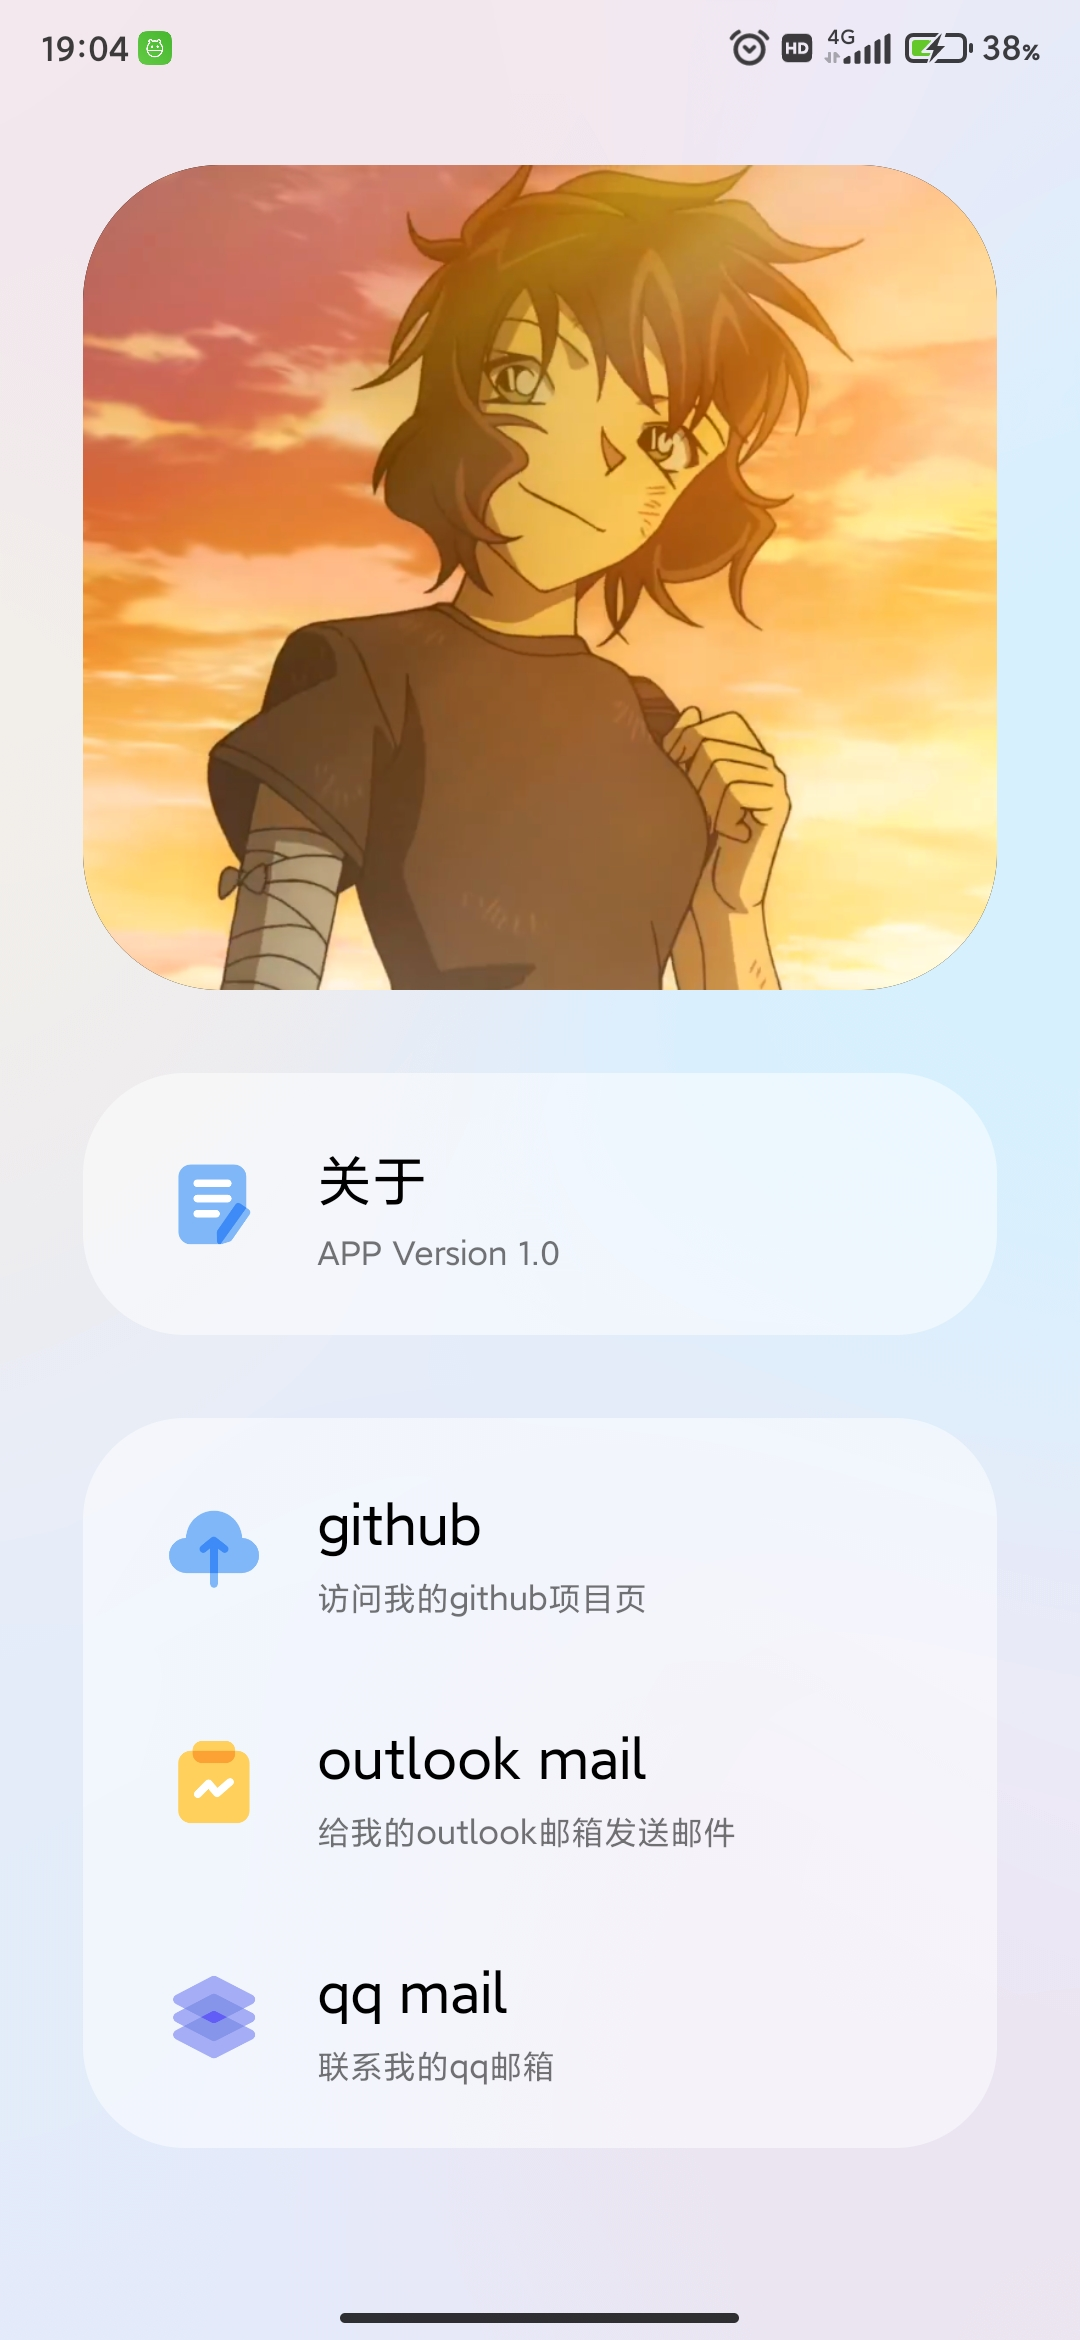
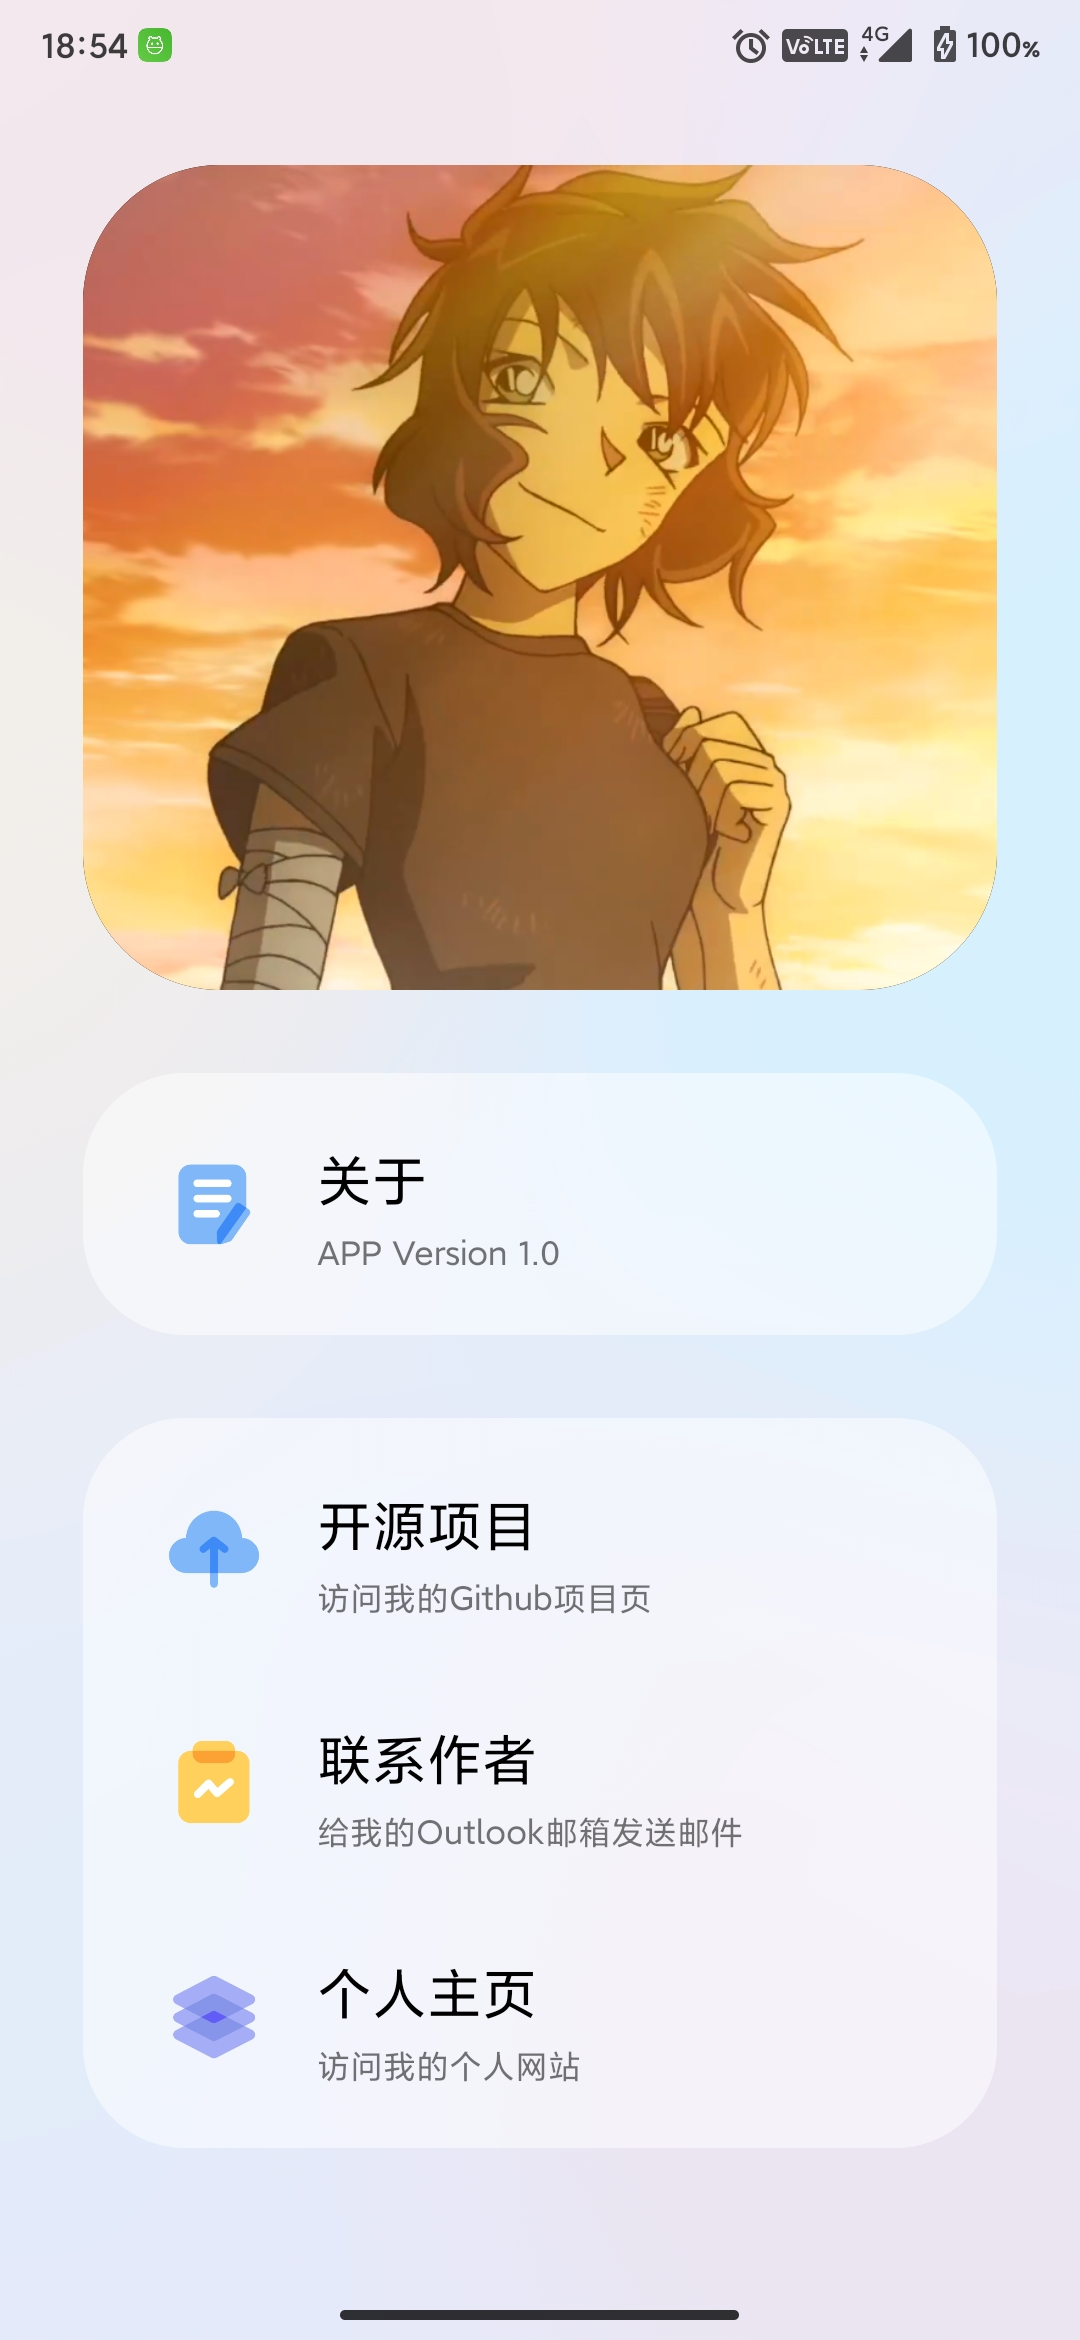
Update

diff --git a/app/src/main/java/com/x/wallpaper/AboutActivity.kt b/app/src/main/java/com/x/wallpaper/AboutActivity.kt
@@ -7,10 +7,8 @@ import android.net.Uri
 import android.os.Build
 import androidx.appcompat.app.AppCompatActivity
 import android.os.Bundle
-import android.transition.Fade
 import android.transition.Slide
 import android.view.*
-import android.widget.ImageView
 import android.widget.TextView
 import android.widget.Toast
 import androidx.annotation.RequiresApi
@@ -18,9 +16,25 @@ import androidx.cardview.widget.CardView
 import androidx.constraintlayout.utils.widget.ImageFilterView
 import androidx.recyclerview.widget.LinearLayoutManager
 import androidx.recyclerview.widget.RecyclerView
-import androidx.recyclerview.widget.StaggeredGridLayoutManager
-import com.x.wallpaper.Utils.animateScale
+import com.google.gson.Gson
+import com.google.gson.reflect.TypeToken
 import com.x.wallpaper.databinding.ActivityAboutBinding
+import okhttp3.OkHttpClient
+import okhttp3.Request
+import okhttp3.Response
+import okio.IOException
+import retrofit2.Call
+import retrofit2.Callback
+import retrofit2.Retrofit
+import retrofit2.converter.gson.GsonConverterFactory
+import retrofit2.http.GET
+import java.io.BufferedReader
+import java.io.InputStreamReader
+import java.lang.Exception
+import java.lang.StringBuilder
+import java.net.URL
+import javax.net.ssl.HttpsURLConnection
+import kotlin.concurrent.thread
 
 @RequiresApi(Build.VERSION_CODES.R)
 class AboutActivity : AppCompatActivity() {
@@ -34,9 +48,9 @@ class AboutActivity : AppCompatActivity() {
     }
 
     private fun initData() {
-        aboutList.add(AboutItem(R.drawable.ico_github,"github","访问我的github项目页"))
-        aboutList.add(AboutItem(R.drawable.ico_outlook,"outlook mail","给我的outlook邮箱发送邮件"))
-        aboutList.add(AboutItem(R.drawable.ico_qq,"qq mail","联系我的qq邮箱"))
+        aboutList.add(AboutItem(R.drawable.ico_github,"开源项目","访问我的Github项目页"))
+        aboutList.add(AboutItem(R.drawable.ico_outlook,"联系作者","给我的Outlook邮箱发送邮件"))
+        aboutList.add(AboutItem(R.drawable.ico_qq,"个人主页","访问我的个人网站"))
 
         firstList.add(AboutItem(R.drawable.ico_version,"关于","APP Version 1.0"))
     }
@@ -113,7 +127,7 @@ class AboutAdapter(private val aboutList : List<AboutItem>,private val isAbout :
         val urlGithub =
             "https://github.com/Case-Closed-X/Android-Wallpaper-Application"
         val urlOutlook = "mailto:CaseClosedX@outlook.com"
-        val urlQQ = "mailto:CaseClosedX@qq.com"
+        val urlHomePage = "https://case-closed-x.github.io/"
 
         val view = LayoutInflater.from(parent.context).inflate(R.layout.about_item,parent,false)
 
@@ -124,7 +138,7 @@ class AboutAdapter(private val aboutList : List<AboutItem>,private val isAbout :
                 val intent = Intent(Intent.ACTION_VIEW, Uri.parse(when(position){
                     0-> urlGithub
                     1-> urlOutlook
-                    2-> urlQQ
+                    2-> urlHomePage
                     else -> null
                 }))
                 when (event.action) {
@@ -139,8 +153,9 @@ class AboutAdapter(private val aboutList : List<AboutItem>,private val isAbout :
                         if (isAbout){
                             parent.context.startActivity(intent)
                         }
-                        else if (position == 0){//后续会优化
-                            Toast.makeText(parent.context,"已经是最新版本", Toast.LENGTH_SHORT).show()
+                        else if (position == 0){// 使用网络获取版本，可以设置flag获取时无效点击
+                            // 获取成功打开github下载页面或者弹出对话框，直接创建下载任务
+                            retrofit()
                         }
                     }
                 }
@@ -149,6 +164,89 @@ class AboutAdapter(private val aboutList : List<AboutItem>,private val isAbout :
 
         return viewHolder
     }
+
+    private fun retrofit() {
+        val versionService = ServiceCreator.create<VersionService>()
+        versionService.getVersionData().enqueue(object : Callback<List<AppVersion>>{
+            override fun onResponse(
+                call: Call<List<AppVersion>>,
+                response: retrofit2.Response<List<AppVersion>>
+            ) {
+                val list = response.body()
+                if (list!=null){
+                    for (version in list){
+                        if (version.version == "1.0") {
+                            Toast.makeText(MyApplication.context, "已经是最新版本", Toast.LENGTH_SHORT)
+                                .show()
+                        }
+                        else{
+                            Toast.makeText(MyApplication.context, "有新版本更新", Toast.LENGTH_SHORT)
+                                .show()
+                            val intent = Intent(Intent.ACTION_VIEW, Uri.parse("https://github.com/Case-Closed-X/Android-Wallpaper-Application/releases/"))
+                            MyApplication.context.startActivity(intent)
+                        }
+                    }
+                }
+            }
+
+            override fun onFailure(call: Call<List<AppVersion>>, t: Throwable) {
+                t.printStackTrace()
+                Toast.makeText(MyApplication.context, "获取更新超时，请检查网络连接", Toast.LENGTH_SHORT)
+                    .show()
+            }
+        })
+
+    }
+
+/*    private fun okHttp() {
+        thread {
+            try {
+                val client = OkHttpClient()
+
+                val request = Request.Builder()
+                    .url("https://case-closed-x.github.io/Json/wallpaper_version.json")
+                    .build()
+                val response = client.newCall(request).execute()
+                val responseData = response.body?.string()
+                if (responseData!=null){
+                    parseJSONWithGSON(responseData)
+                }
+            }catch (e:Exception){
+                e.printStackTrace()
+            }
+        }
+    }*/
+
+/*    private fun parseJSONWithGSON(jsonData: String) {
+        val gson = Gson()
+        val typeOf = object : TypeToken<List<AppVersion>>() {}.type
+        val versionList = gson.fromJson<List<AppVersion>>(jsonData,typeOf)
+        for(version in versionList){
+            if (version.version=="1.0")
+            {
+
+            }
+        }
+    }*/
+
+/*    private fun httpURLConnection() {
+        thread {
+            var connection:HttpsURLConnection ?= null
+
+            var response = StringBuilder()
+            val url = URL("https://raw.githubusercontent.com/Case-Closed-X/Android-Wallpaper-Application/ecf047dc0e396ccd0f9c0e85b0f134e7e63df06a/app/src/main/res/raw/wallpaper_version.json")
+            connection = url.openConnection() as HttpsURLConnection
+            connection.connectTimeout = 8000
+            connection.readTimeout = 8000
+            val input = connection.inputStream
+            val reader = BufferedReader(InputStreamReader(input))
+            reader.use {
+                reader.forEachLine {
+                    response.append(it)
+                }
+            }
+        }
+    }*/
 
     override fun onBindViewHolder(holder: AboutAdapter.ViewHolder, position: Int) {
         val aboutItem = aboutList[position]
@@ -162,6 +260,22 @@ class AboutAdapter(private val aboutList : List<AboutItem>,private val isAbout :
     }
 }
 
-class AboutItem (val imageId : Int, val title : String, val content : String){
+class AboutItem (val imageId : Int, val title : String, val content : String)
 
+class AppVersion(val version: String)
+
+interface VersionService{
+    @GET("wallpaper_version.json")
+    fun getVersionData():Call<List<AppVersion>>
+}
+
+object ServiceCreator{
+    private const val BASE_URL = "https://case-closed-x.github.io/Json/"
+    private val retrofit = Retrofit.Builder()
+        .baseUrl(BASE_URL)
+        .addConverterFactory(GsonConverterFactory.create())
+        .build()
+
+    fun <T> create(serviceClass: Class<T>):T = retrofit.create(serviceClass)
+    inline fun <reified T> create() : T = create(T::class.java)
 }

diff --git a/app/src/main/java/com/x/wallpaper/RecyclerViewActivity.kt b/app/src/main/java/com/x/wallpaper/RecyclerViewActivity.kt
@@ -75,6 +75,17 @@ class RecyclerViewActivity : AppCompatActivity() {
         super.onDestroy()
     }
 
+    private fun initImages() {
+        imageList.add(ImageItem(R.drawable.space))
+        imageList.add(ImageItem(R.drawable.mountain))
+        imageList.add(ImageItem(R.drawable.aperture))
+        imageList.add(ImageItem(R.drawable.ship))
+        imageList.add(ImageItem(R.drawable.technology))
+        imageList.add(ImageItem(R.drawable.sky))
+        imageList.add(ImageItem(R.drawable.tree))
+        imageList.add(ImageItem(R.drawable.road))
+    }
+
     /*fun readBitmapFromResource(
         resources: Resources,
         resourcesId: Int,
@@ -99,15 +110,4 @@ class RecyclerViewActivity : AppCompatActivity() {
         options.inSampleSize = inSampleSize
         return BitmapFactory.decodeStream(ins, null, options)
     }*/
-
-    private fun initImages() {
-        imageList.add(ImageItem(R.drawable.space))
-        imageList.add(ImageItem(R.drawable.mountain))
-        imageList.add(ImageItem(R.drawable.aperture))
-        imageList.add(ImageItem(R.drawable.ship))
-        imageList.add(ImageItem(R.drawable.technology))
-        imageList.add(ImageItem(R.drawable.sky))
-        imageList.add(ImageItem(R.drawable.tree))
-        imageList.add(ImageItem(R.drawable.road))
-    }
 }

diff --git a/app/src/main/java/com/x/wallpaper/MyApplication.kt b/app/src/main/java/com/x/wallpaper/MyApplication.kt
@@ -1,0 +1,17 @@
+package com.x.wallpaper
+
+import android.annotation.SuppressLint
+import android.app.Application
+import android.content.Context
+
+class MyApplication : Application(){
+    companion object{
+        @SuppressLint("StaticFieldLeak")//不会造成内存泄漏
+        lateinit var context : Context
+    }
+
+    override fun onCreate() {
+        super.onCreate()
+        context = applicationContext
+    }
+}
